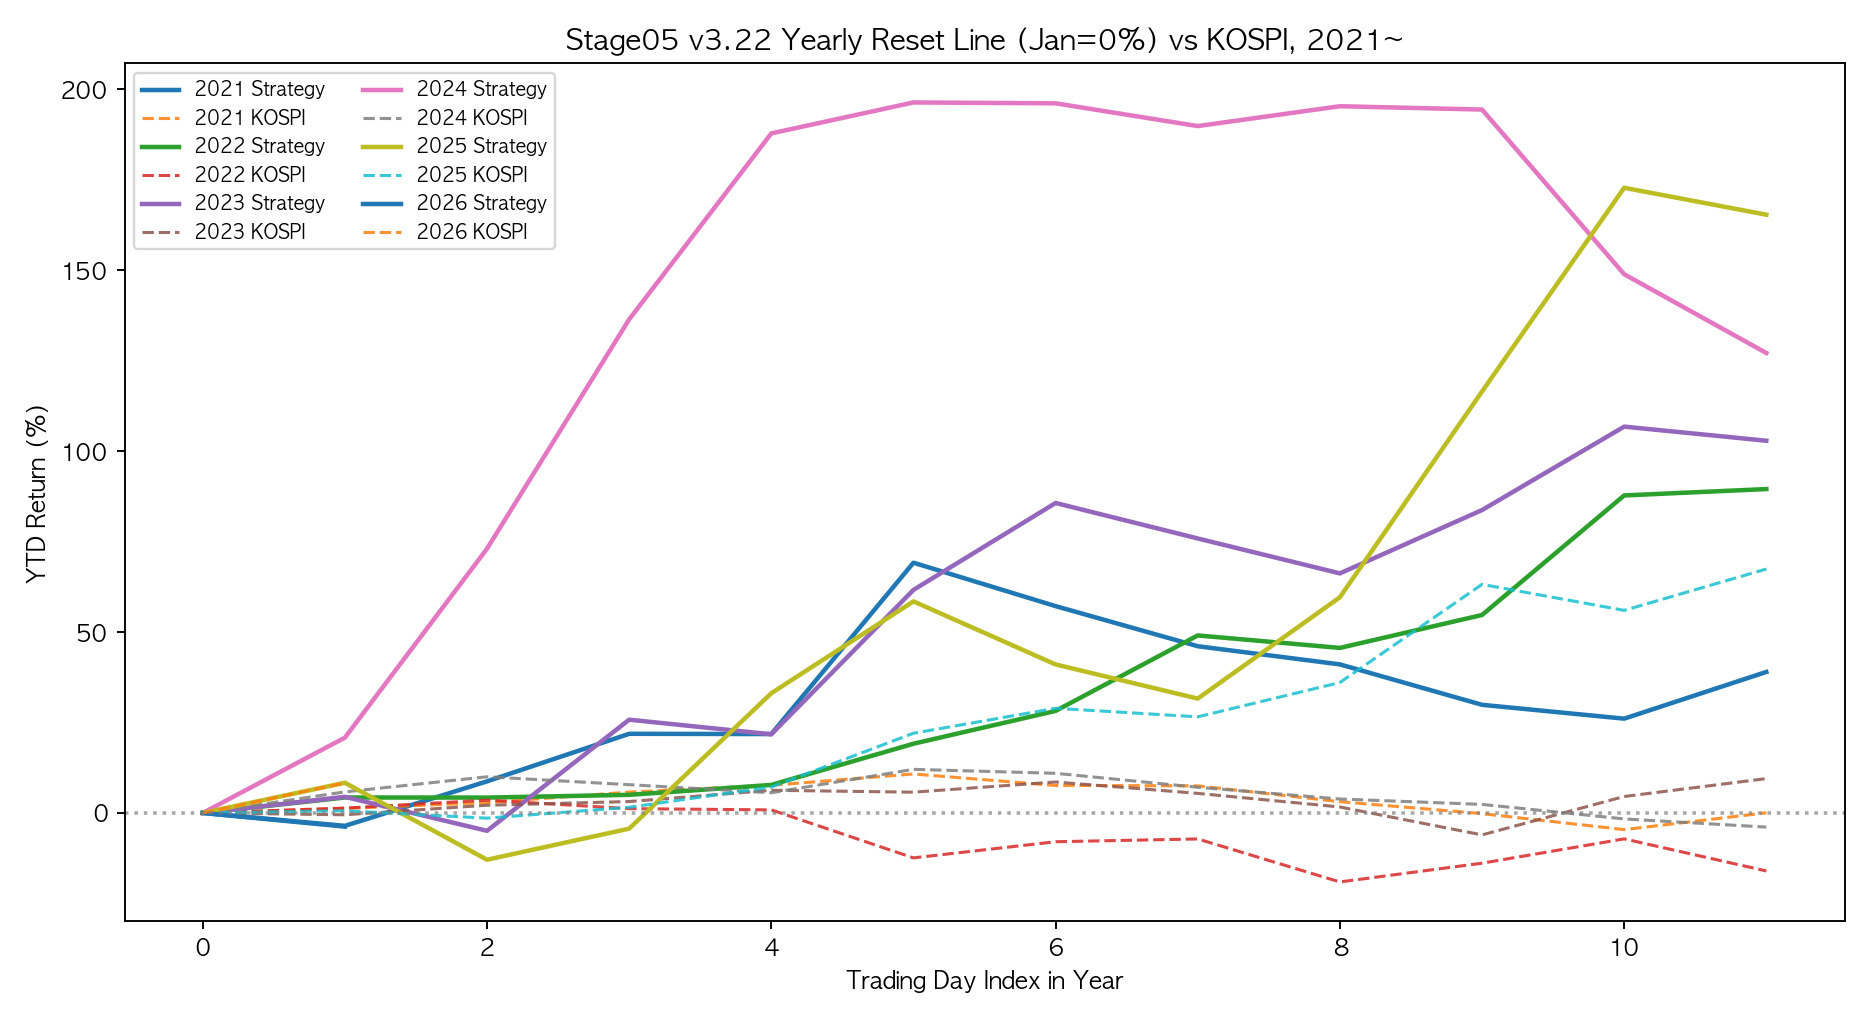
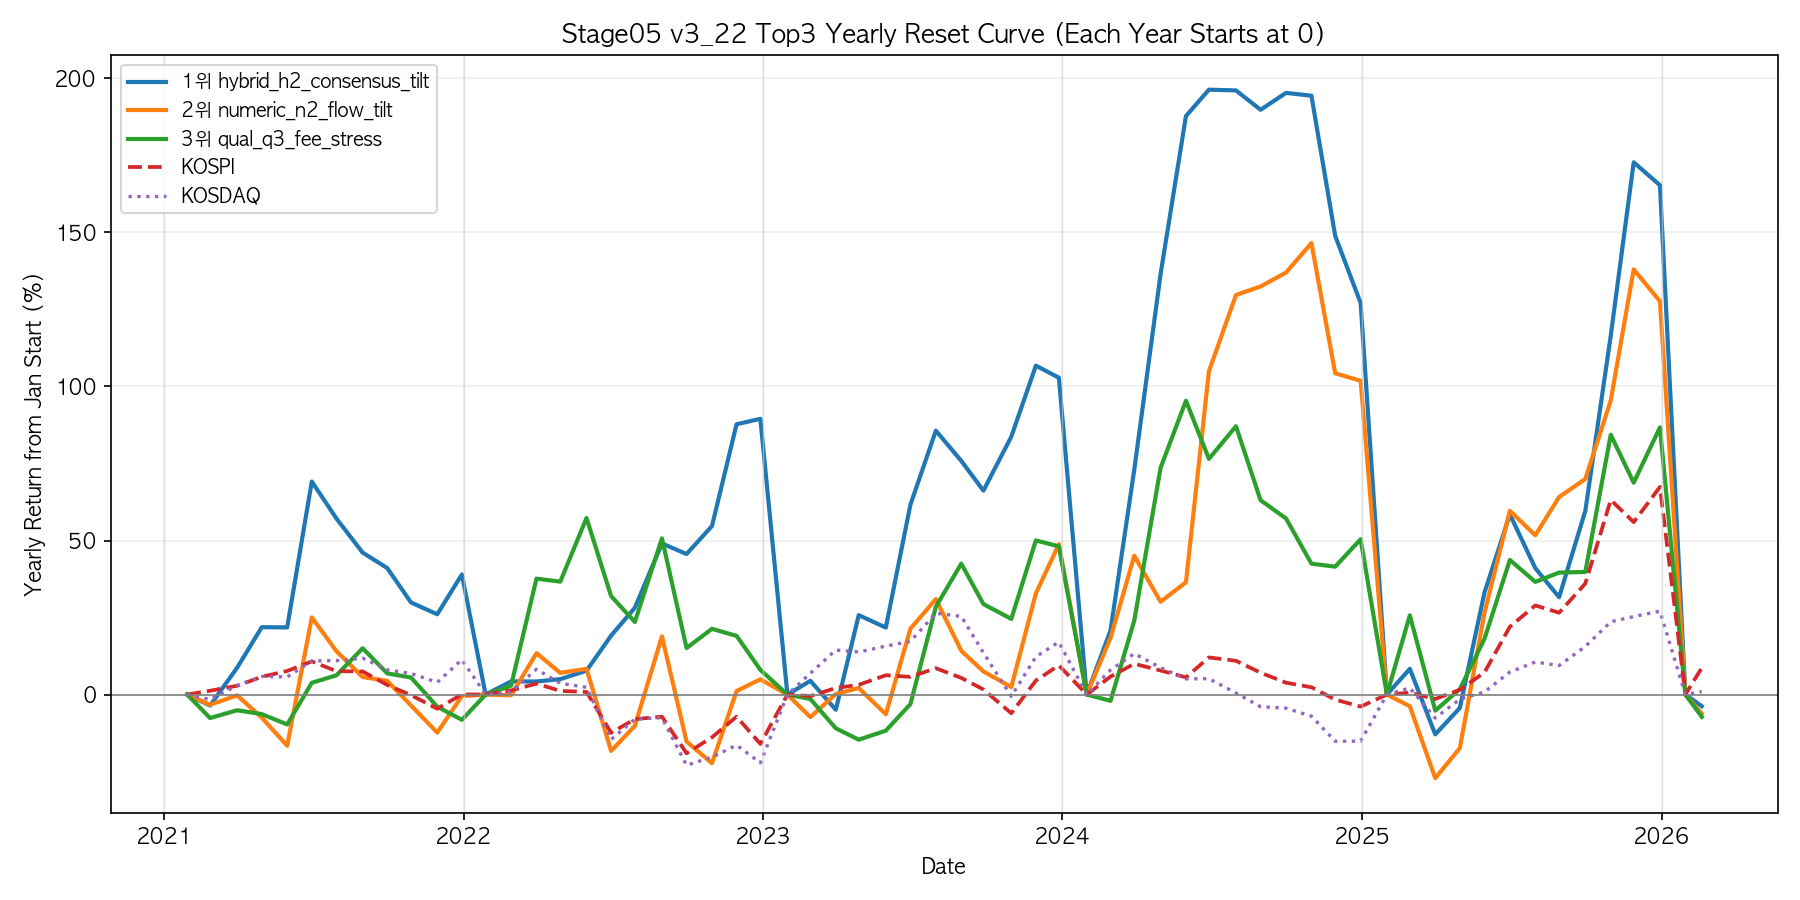
fix(stage05-chart): make second chart yearly-reset from 0 with jagged daily curves

diff --git a/invest/scripts/stage05_plot_v3_22_top3.py b/invest/scripts/stage05_plot_v3_22_top3.py
@@ -12,7 +12,7 @@ BASE = Path(__file__).resolve().parents[2]
 IN_JSON = BASE / 'invest/results/validated/stage05_baselines_v3_22_kr.json'
 OUT_DIR = BASE / 'invest/reports/stage_updates/charts'
 OUT_CUM = OUT_DIR / 'stage05_v3_22_cum_2021plus.png'
-OUT_YEAR = OUT_DIR / 'stage05_v3_22_yearly_continuous_2021plus.png'
+OUT_YEAR = OUT_DIR / 'stage05_v3_22_yearly_reset_2021plus.png'
 
 
 def import_stage05_module():
@@ -41,6 +41,21 @@ def import_replay_module():
 
 def _to_cum_pct(eq: pd.Series) -> pd.Series:
     return (eq / float(eq.iloc[0]) - 1.0) * 100.0
+
+
+def _to_yearly_reset_pct(eq: pd.Series) -> pd.Series:
+    out = []
+    years = sorted(set(eq.index.year))
+    for y in years:
+        s = eq[eq.index.year == y]
+        if s.empty:
+            continue
+        base = float(s.iloc[0])
+        yr = (s / base - 1.0) * 100.0
+        out.append(yr)
+    if not out:
+        return pd.Series(dtype=float)
+    return pd.concat(out).sort_index()
 
 
 def main():
@@ -89,22 +104,24 @@ def main():
     plt.savefig(OUT_CUM, dpi=150)
     plt.close()
 
-    # Chart 2: same jagged style, yearly visual guide without reset
+    # Chart 2: yearly reset (start each year at 0), jagged daily curves
     plt.figure(figsize=(12, 6))
     for i, (mid, eq) in enumerate(replays, start=1):
         s = eq.reindex(common_idx).ffill().bfill()
-        plt.plot(common_idx, _to_cum_pct(s), linewidth=2.0, label=f'{i}위 {mid}')
-    plt.plot(common_idx, _to_cum_pct(kospi_eq), linewidth=1.8, linestyle='--', label='KOSPI')
+        yr = _to_yearly_reset_pct(s)
+        plt.plot(yr.index, yr.values, linewidth=2.0, label=f'{i}위 {mid}')
+    kospi_yr = _to_yearly_reset_pct(kospi_eq)
+    plt.plot(kospi_yr.index, kospi_yr.values, linewidth=1.8, linestyle='--', label='KOSPI')
     if not kosdaq_eq.empty:
-        plt.plot(common_idx, _to_cum_pct(kosdaq_eq), linewidth=1.6, linestyle=':', label='KOSDAQ')
-    # yearly separators
+        kosdaq_yr = _to_yearly_reset_pct(kosdaq_eq)
+        plt.plot(kosdaq_yr.index, kosdaq_yr.values, linewidth=1.6, linestyle=':', label='KOSDAQ')
     years = sorted(set(common_idx.year))
     for y in years:
         plt.axvline(pd.Timestamp(f'{y}-01-01'), color='lightgray', linewidth=0.7, alpha=0.6)
     plt.axhline(0, color='gray', linewidth=0.8)
-    plt.title('Stage05 v3_22 Top3 Continuous Curve with Year Guides (No Reset)')
+    plt.title('Stage05 v3_22 Top3 Yearly Reset Curve (Each Year Starts at 0)')
     plt.xlabel('Date')
-    plt.ylabel('Cumulative Return (%)')
+    plt.ylabel('Yearly Return from Jan Start (%)')
     plt.grid(alpha=0.20)
     plt.legend(loc='best', fontsize=9)
     plt.tight_layout()

diff --git a/invest/reports/stage_updates/stage05/stage05_result_v3_22_kr_readable.md b/invest/reports/stage_updates/stage05/stage05_result_v3_22_kr_readable.md
@@ -17,7 +17,7 @@
 
 ## 그래프 (2021~ 시작, 2종)
 - 누적 수익률(Top1~Top3 + KOSPI/KOSDAQ): `invest/reports/stage_updates/charts/stage05_v3_22_cum_2021plus.png`
-- 연속 그래프(Top1~Top3 + KOSPI/KOSDAQ, 연도 가이드만 표시/no reset): `invest/reports/stage_updates/charts/stage05_v3_22_yearly_continuous_2021plus.png`
+- 연도별 리셋 그래프(Top1~Top3 + KOSPI/KOSDAQ, 매년 0부터 시작): `invest/reports/stage_updates/charts/stage05_v3_22_yearly_reset_2021plus.png`
 - 작성 기준: v3_22 `annual_returns` 실측값 기반(연말 기준), 임의 보간/가짜 월별 곡선 미사용
 
 ## 거래내역/포트타임라인
